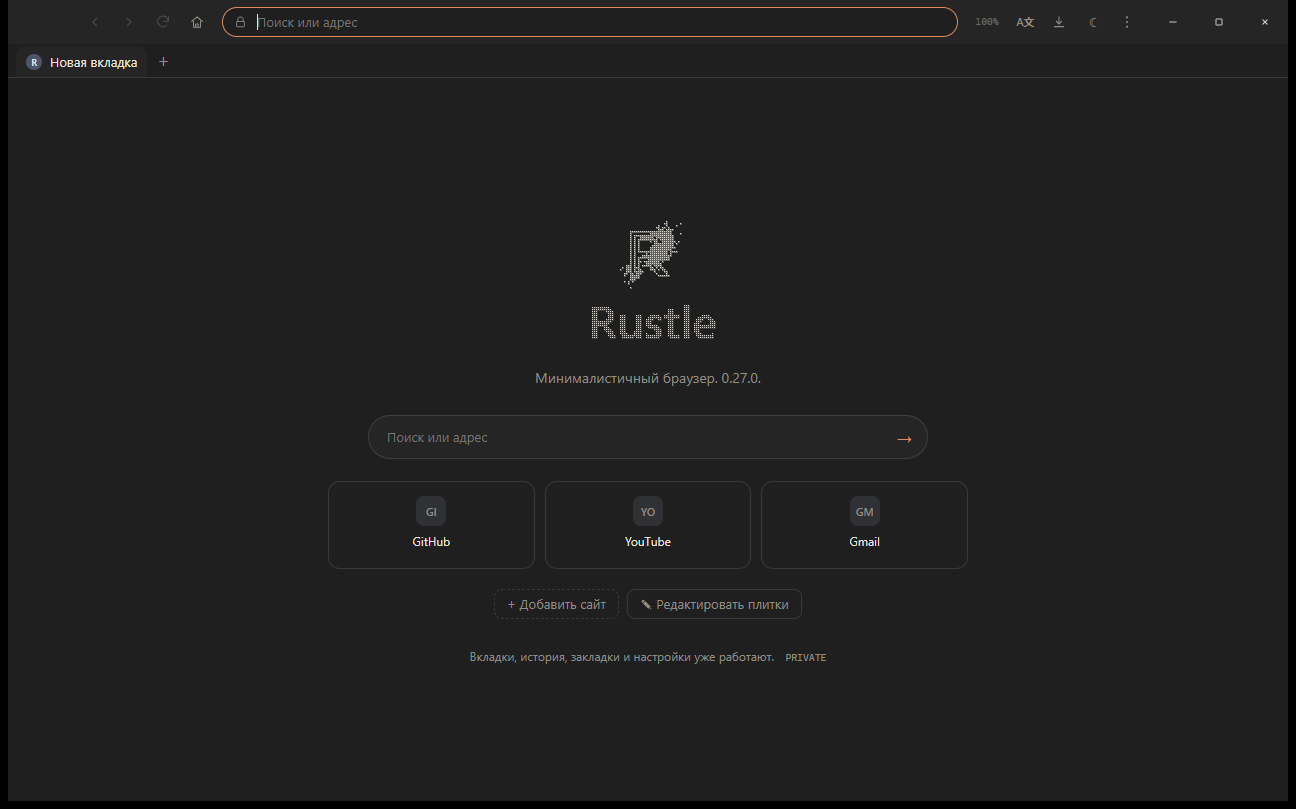
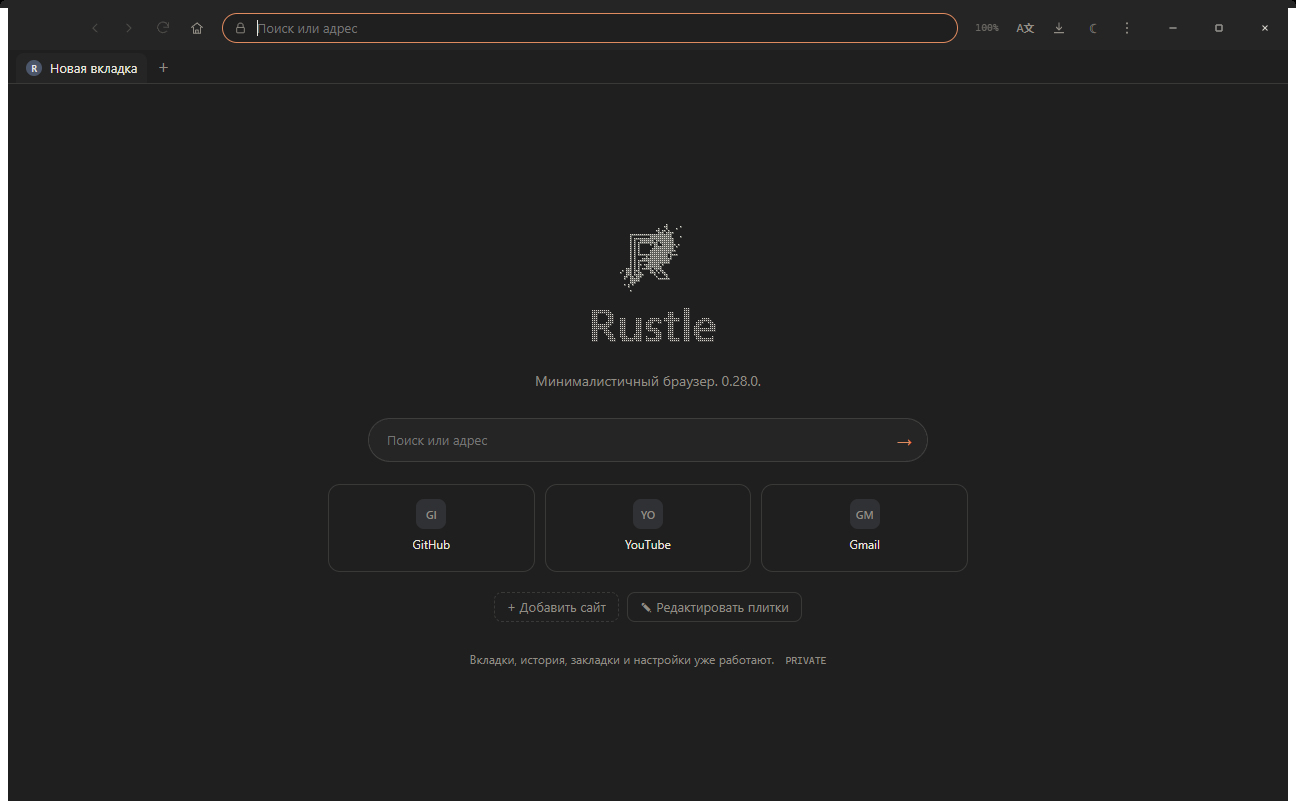
fix: top resize, window control setting, adblock exceptions and update button

diff --git a/crates/rustle-ui/assets/chrome/chrome.js b/crates/rustle-ui/assets/chrome/chrome.js
@@ -953,6 +953,22 @@
     if (startup) {
       startup.value = settings.startup || "restore";
     }
+    const autoSuspend = byId("setting-auto-suspend");
+    if (autoSuspend) {
+      autoSuspend.value = String(settings.autoSuspendMinutes ?? 30);
+    }
+    const windowControlsSelect = byId("setting-window-controls");
+    if (windowControlsSelect) {
+      windowControlsSelect.value = settings.windowControls || "standard";
+    }
+    const toolbarHidden = settings.toolbarHidden || [];
+    const setToolbarToggle = (id, key) => {
+      const node = byId(id);
+      if (node) node.checked = !toolbarHidden.includes(key);
+    };
+    setToolbarToggle("toolbar-translate", "translate");
+    setToolbarToggle("toolbar-downloads", "downloads");
+    setToolbarToggle("toolbar-theme", "theme");
     const sidebarWidth = byId("setting-sidebar-width");
     if (sidebarWidth) {
       sidebarWidth.value = String(settings.sidebarWidth || 282);
@@ -1009,6 +1025,20 @@
     };
     autosaveField(exceptions);
     autosaveField(customRules);
+    if (exceptions && exceptions.dataset.directSave !== "1") {
+      exceptions.dataset.directSave = "1";
+      let exceptionTimer = 0;
+      exceptions.addEventListener("input", () => {
+        window.clearTimeout(exceptionTimer);
+        exceptionTimer = window.setTimeout(() => {
+          const values = exceptions.value
+            .split(/[,\n]+/)
+            .map((entry) => entry.trim())
+            .filter(Boolean);
+          send({ type: "settings.exceptions", values });
+        }, 450);
+      });
+    }
     const status = byId("settings-status");
     if (status) {
       status.textContent = "";
@@ -1341,7 +1371,7 @@
     if (aboutWebview && payload.webview2Version) {
       aboutWebview.textContent = payload.webview2Version;
     }
-    const aboutUpdate = byId("update-status");
+  const aboutUpdate = byId("update-status");
     if (aboutUpdate && payload.updateStatus) {
       aboutUpdate.textContent = payload.updateStatus;
     }
@@ -2191,6 +2221,13 @@
           theme: byId("setting-theme").value,
           language: byId("setting-language")?.value || "ru",
           startup: byId("setting-startup").value,
+          autoSuspendMinutes: Number(byId("setting-auto-suspend")?.value || 30),
+          windowControls: byId("setting-window-controls")?.value || "standard",
+          toolbarHidden: [
+            !byId("toolbar-translate")?.checked ? "translate" : null,
+            !byId("toolbar-downloads")?.checked ? "downloads" : null,
+            !byId("toolbar-theme")?.checked ? "theme" : null,
+          ].filter(Boolean),
           httpsFirst: byId("setting-https").checked,
           clearOnExit: byId("setting-clear-exit").checked,
           adblock: byId("setting-adblock").checked,
@@ -2600,6 +2637,19 @@
   if (paletteOverlay) paletteOverlay.addEventListener("pointerdown", (event) => {
     if (event.target === paletteOverlay) closePalette();
   });
+
+  const updateCheckButton = byId("update-check");
+  if (updateCheckButton) {
+    updateCheckButton.addEventListener("click", () => {
+      const statusNode = byId("update-status");
+      if (statusNode) statusNode.textContent = "Проверка…";
+      send({ type: "app.updateCheck" });
+    });
+  }
+  const updateDownloadButton = byId("update-download");
+  if (updateDownloadButton) {
+    updateDownloadButton.addEventListener("click", () => send({ type: "nav.go", url: "https://github.com/d1m40fficial/rustle/releases/latest" }));
+  }
 
   initParticleHero();
 

diff --git a/crates/rustle-ui/assets/chrome/index.html b/crates/rustle-ui/assets/chrome/index.html
@@ -92,7 +92,7 @@
         <div class="newtab__brand">Rustle</div>
         <canvas class="newtab__particles" id="newtab-particles"></canvas>
       </div>
-      <p class="newtab__tagline">Минималистичный браузер. 0.27.0.</p>
+      <p class="newtab__tagline">Минималистичный браузер. 0.28.0.</p>
 
       <form class="newtab__search" id="newtab-search" role="search">
         <input class="newtab__input" id="newtab-query" type="text" placeholder="Поиск или адрес" autocomplete="off">
@@ -105,7 +105,7 @@
         <button class="newtab__add newtab__edit" id="newtab-edit" type="button">✎ Редактировать плитки</button>
       </div>
 
-      <p class="newtab__hint">Вкладки, история, закладки и настройки уже работают. <span class="newtab__version" id="about" title="Версия">0.27.0</span></p>
+      <p class="newtab__hint">Вкладки, история, закладки и настройки уже работают. <span class="newtab__version" id="about" title="Версия">0.28.0</span></p>
     </div>
   </section>
 
@@ -352,6 +352,7 @@
       <dl>
         <dt>Версия</dt><dd id="about-version">0.0.1</dd>
         <dt>Движок</dt><dd>WebView2 <span id="about-webview2">—</span></dd>
+        <dt>Обновления</dt><dd><button class="link" id="update-check" type="button">Проверить обновления</button> <span id="update-status"></span> <button class="link" id="update-download" type="button" hidden>Скачать</button></dd>
         <dt>Исходники</dt><dd><button class="link" type="button" data-nav="https://github.com/d1m40fficial/rustle">github.com/d1m40fficial/rustle</button></dd>
       </dl>
     </div>

diff --git a/crates/rustle-ui/assets/newtab/index.html b/crates/rustle-ui/assets/newtab/index.html
@@ -9,7 +9,7 @@
 <body>
   <main class="page">
     <div class="brand">Rustle</div>
-    <p class="tagline">Минималистичный браузер. 0.27.0.</p>
+    <p class="tagline">Минималистичный браузер. 0.28.0.</p>
 
     <form class="search" id="search" role="search">
       <input class="search__input" id="q" type="text" placeholder="Поиск или адрес" autocomplete="off" autofocus>

diff --git a/crates/rustle-app/src/main.rs b/crates/rustle-app/src/main.rs
@@ -811,7 +811,6 @@ fn push_ui_state(state: &Rc<RefCell<AppState>>) {
                 "autoSuspendMinutes": state.settings.auto_suspend_minutes,
                 "toolbarHidden": state.settings.toolbar_hidden,
                 "windowControls": state.settings.window_controls,
-                "toolbarHidden": state.settings.toolbar_hidden,
             },
             "adblockStatus": state.adblock_info.to_json(),
             "blockedLog": state.blocked_log,
@@ -2867,6 +2866,27 @@ fn open_session_as(state: &Rc<RefCell<AppState>>) {
 }
 
 #[allow(dead_code)]
+fn version_parts(version: &str) -> Vec<u32> {
+    version
+        .trim_start_matches('v')
+        .split('.')
+        .map(|part| part.parse::<u32>().unwrap_or(0))
+        .collect()
+}
+
+fn version_is_newer(latest: &str, current: &str) -> bool {
+    let latest = version_parts(latest);
+    let current = version_parts(current);
+    for index in 0..latest.len().max(current.len()) {
+        let left = latest.get(index).copied().unwrap_or(0);
+        let right = current.get(index).copied().unwrap_or(0);
+        if left != right {
+            return left > right;
+        }
+    }
+    false
+}
+
 fn check_updates(state: &Rc<RefCell<AppState>>) {
     let proxy = state.borrow().proxy.clone();
     std::thread::spawn(move || {
@@ -2889,7 +2909,7 @@ fn check_updates(state: &Rc<RefCell<AppState>>) {
                             .to_owned();
                         if latest.is_empty() {
                             "Не удалось проверить обновления".to_owned()
-                        } else if latest != VERSION {
+                        } else if version_is_newer(&latest, VERSION) {
                             format!("Доступна новая версия {latest} (у вас {VERSION})")
                         } else {
                             format!("У вас последняя версия {VERSION}")
@@ -5319,6 +5339,25 @@ fn handle_ipc(state: &Rc<RefCell<AppState>>, body: &str) {
             find_in_page(state, text, forward);
         }
         Some("settings.export") => export_config(state),
+        Some("settings.exceptions") => {
+            if let Some(values) = message.get("values").and_then(|value| value.as_array()) {
+                let exceptions: Vec<String> = values
+                    .iter()
+                    .filter_map(|value| value.as_str())
+                    .map(|value| value.trim().trim_start_matches('.').to_lowercase())
+                    .filter(|value| !value.is_empty())
+                    .collect();
+                {
+                    let mut state_ref = state.borrow_mut();
+                    state_ref.settings.adblock_exceptions = exceptions;
+                    if !state_ref.private {
+                        let _ = rustle_storage::save_settings(&state_ref.settings);
+                    }
+                }
+                push_ui_state(state);
+            }
+        }
+        Some("app.updateCheck") => check_updates(state),
         Some("sessions.refresh") => refresh_saved_sessions(state),
         Some("sessions.save") => {
             if let Some(name) = message.get("name").and_then(|value| value.as_str()) {
@@ -5929,6 +5968,11 @@ unsafe extern "system" {
     fn SetCapture(hwnd: isize) -> isize;
     fn GetCapture() -> isize;
     fn GetParent(hwnd: isize) -> isize;
+    fn GetWindowDC(hwnd: isize) -> isize;
+    fn ReleaseDC(hwnd: isize, hdc: isize) -> i32;
+    fn CreateSolidBrush(color: u32) -> isize;
+    fn FillRect(hdc: isize, rect: *const ResizeRect, brush: isize) -> i32;
+    fn DeleteObject(object: isize) -> i32;
 }
 
 #[cfg(target_os = "windows")]
@@ -6217,6 +6261,33 @@ unsafe extern "system" fn resize_subclass(
     const HTBOTTOMRIGHT: isize = 17;
     const BORDER: i32 = 10;
     const WM_NCCALCSIZE: u32 = 0x0083;
+    const WM_NCPAINT: u32 = 0x0085;
+
+    if msg == WM_NCPAINT {
+        unsafe {
+            let mut window = ResizeRect {
+                left: 0,
+                top: 0,
+                right: 0,
+                bottom: 0,
+            };
+            GetWindowRect(hwnd, &mut window);
+            let hdc = GetWindowDC(hwnd);
+            if hdc != 0 {
+                let brush = CreateSolidBrush(0x00252525);
+                let top = ResizeRect {
+                    left: 0,
+                    top: 0,
+                    right: window.right - window.left,
+                    bottom: 8,
+                };
+                FillRect(hdc, &top, brush);
+                DeleteObject(brush);
+                ReleaseDC(hwnd, hdc);
+            }
+        }
+        return 0;
+    }
 
     if msg == WM_NCCALCSIZE {
         let border = 8i32;
@@ -6224,7 +6295,7 @@ unsafe extern "system" fn resize_subclass(
             if wparam != 0 {
                 let params = &mut *(lparam as *mut NcCalcSizeParams);
                 params.rgrc[0].left += border;
-                // top edge stays in the client area: no extra line above the toolbar
+                params.rgrc[0].top += 6;
                 params.rgrc[0].right -= border;
                 params.rgrc[0].bottom -= border;
             } else {

diff --git a/crates/rustle-storage/src/lib.rs b/crates/rustle-storage/src/lib.rs
@@ -146,7 +146,7 @@ fn default_group_hue() -> u16 {
 }
 
 fn default_adblock_exceptions() -> Vec<String> {
-    vec!["hltv.org".to_owned(), "vk.ru".to_owned()]
+    Vec::new()
 }
 
 impl Default for Settings {
@@ -281,10 +281,6 @@ pub fn load_settings() -> Settings {
         return Settings::default();
     };
     if settings.version == SETTINGS_VERSION {
-        let mut settings = settings;
-        if settings.adblock_exceptions.len() == 1 && settings.adblock_exceptions[0] == "hltv.org" {
-            settings.adblock_exceptions.push("vk.ru".to_owned());
-        }
         settings
     } else {
         Settings::default()

diff --git a/docs/release-0.28.0.md b/docs/release-0.28.0.md
@@ -1,0 +1,8 @@
+# Rustle 0.28.0
+
+- Верхний край снова ресайзится: non-client 6 px, окрашен в цвет панели, без отдельной полосы.
+- В развёрнутом/полноэкранном режиме панель опущена на 6 px и не обрезается.
+- Кнопки окна переключаются в настройках и применяются сразу (исправлено сохранение windowControls).
+- Adblock: удалён дефолтный vk.ru и миграция, которая возвращала его после сохранения.
+- Добавлена ручная кнопка «Проверить обновления» в «О браузере» + ссылка «Скачать» при новой версии.
+- Исправлены автосон/панель/тулбар в сохранении настроек.

diff --git a/README.md b/README.md
@@ -69,7 +69,7 @@
 
 ```powershell
 cargo build --release
-./scripts/build-release.ps1 -Version 0.27.0
+./scripts/build-release.ps1 -Version 0.28.0
 ```
 
 Нужны Rust stable, MinGW/MSVC и Inno Setup. Portable-сборка кладёт `WebView2Loader.dll` рядом с `rustle.exe`.
